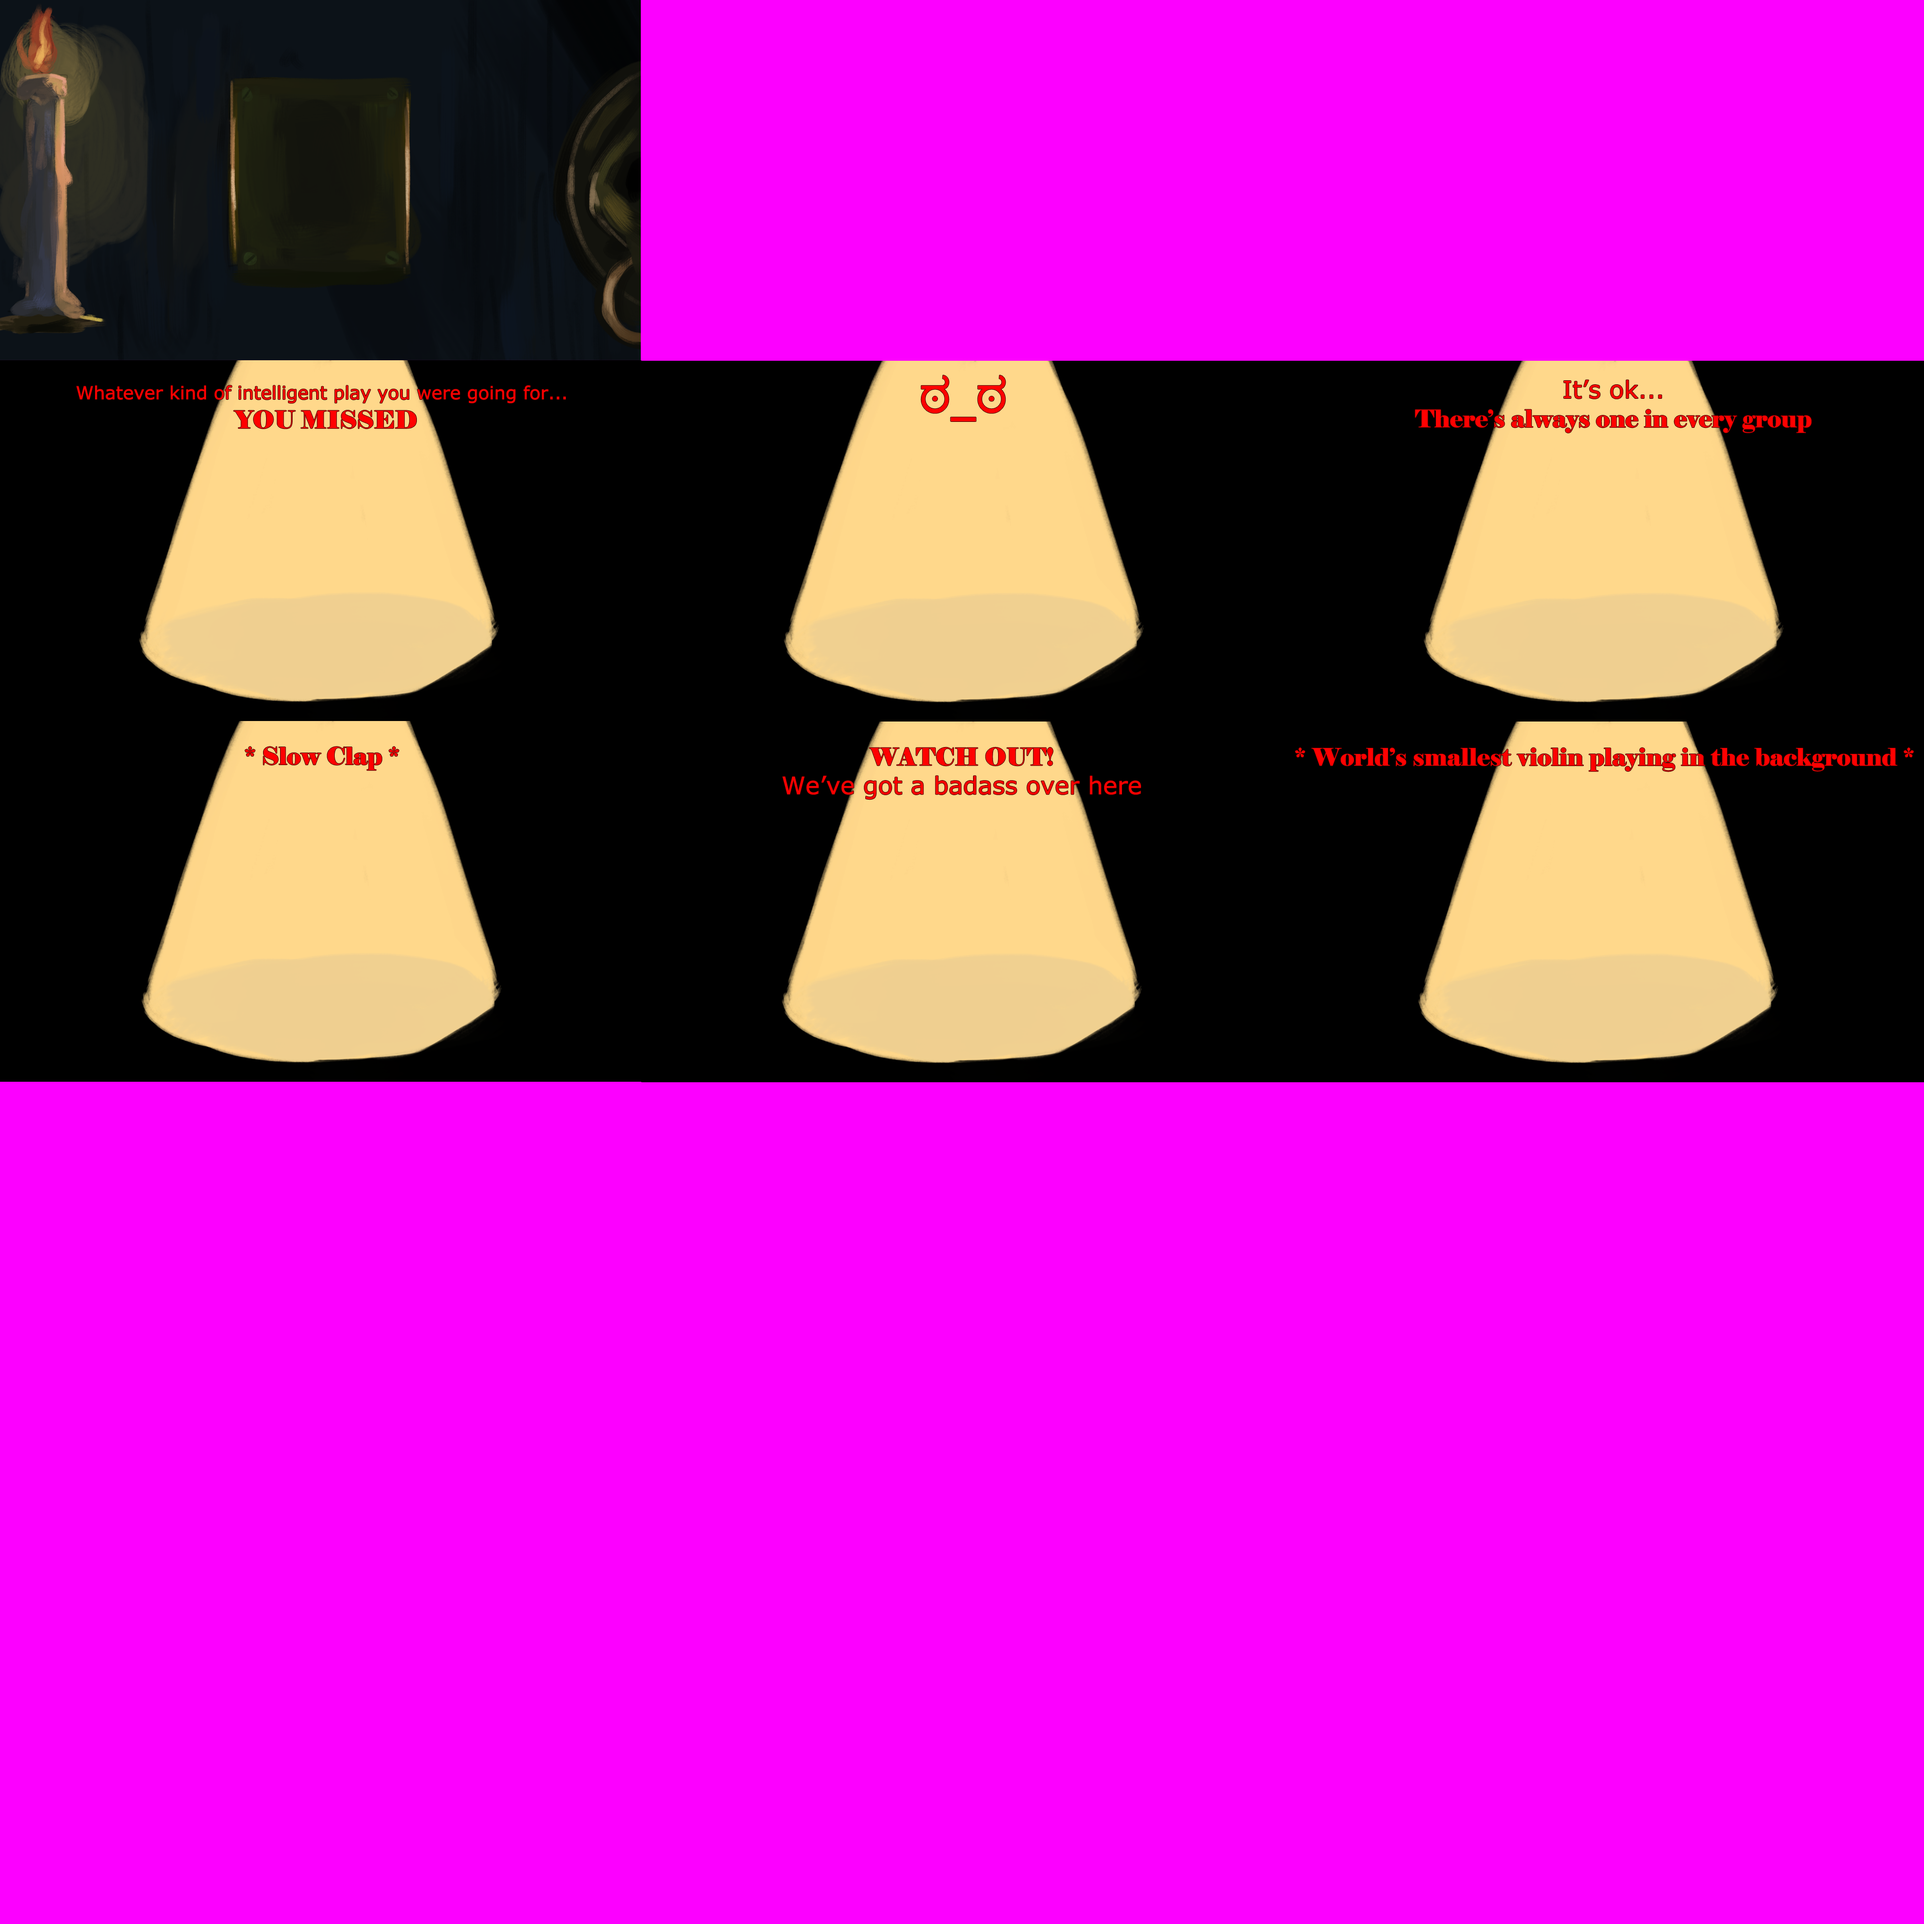
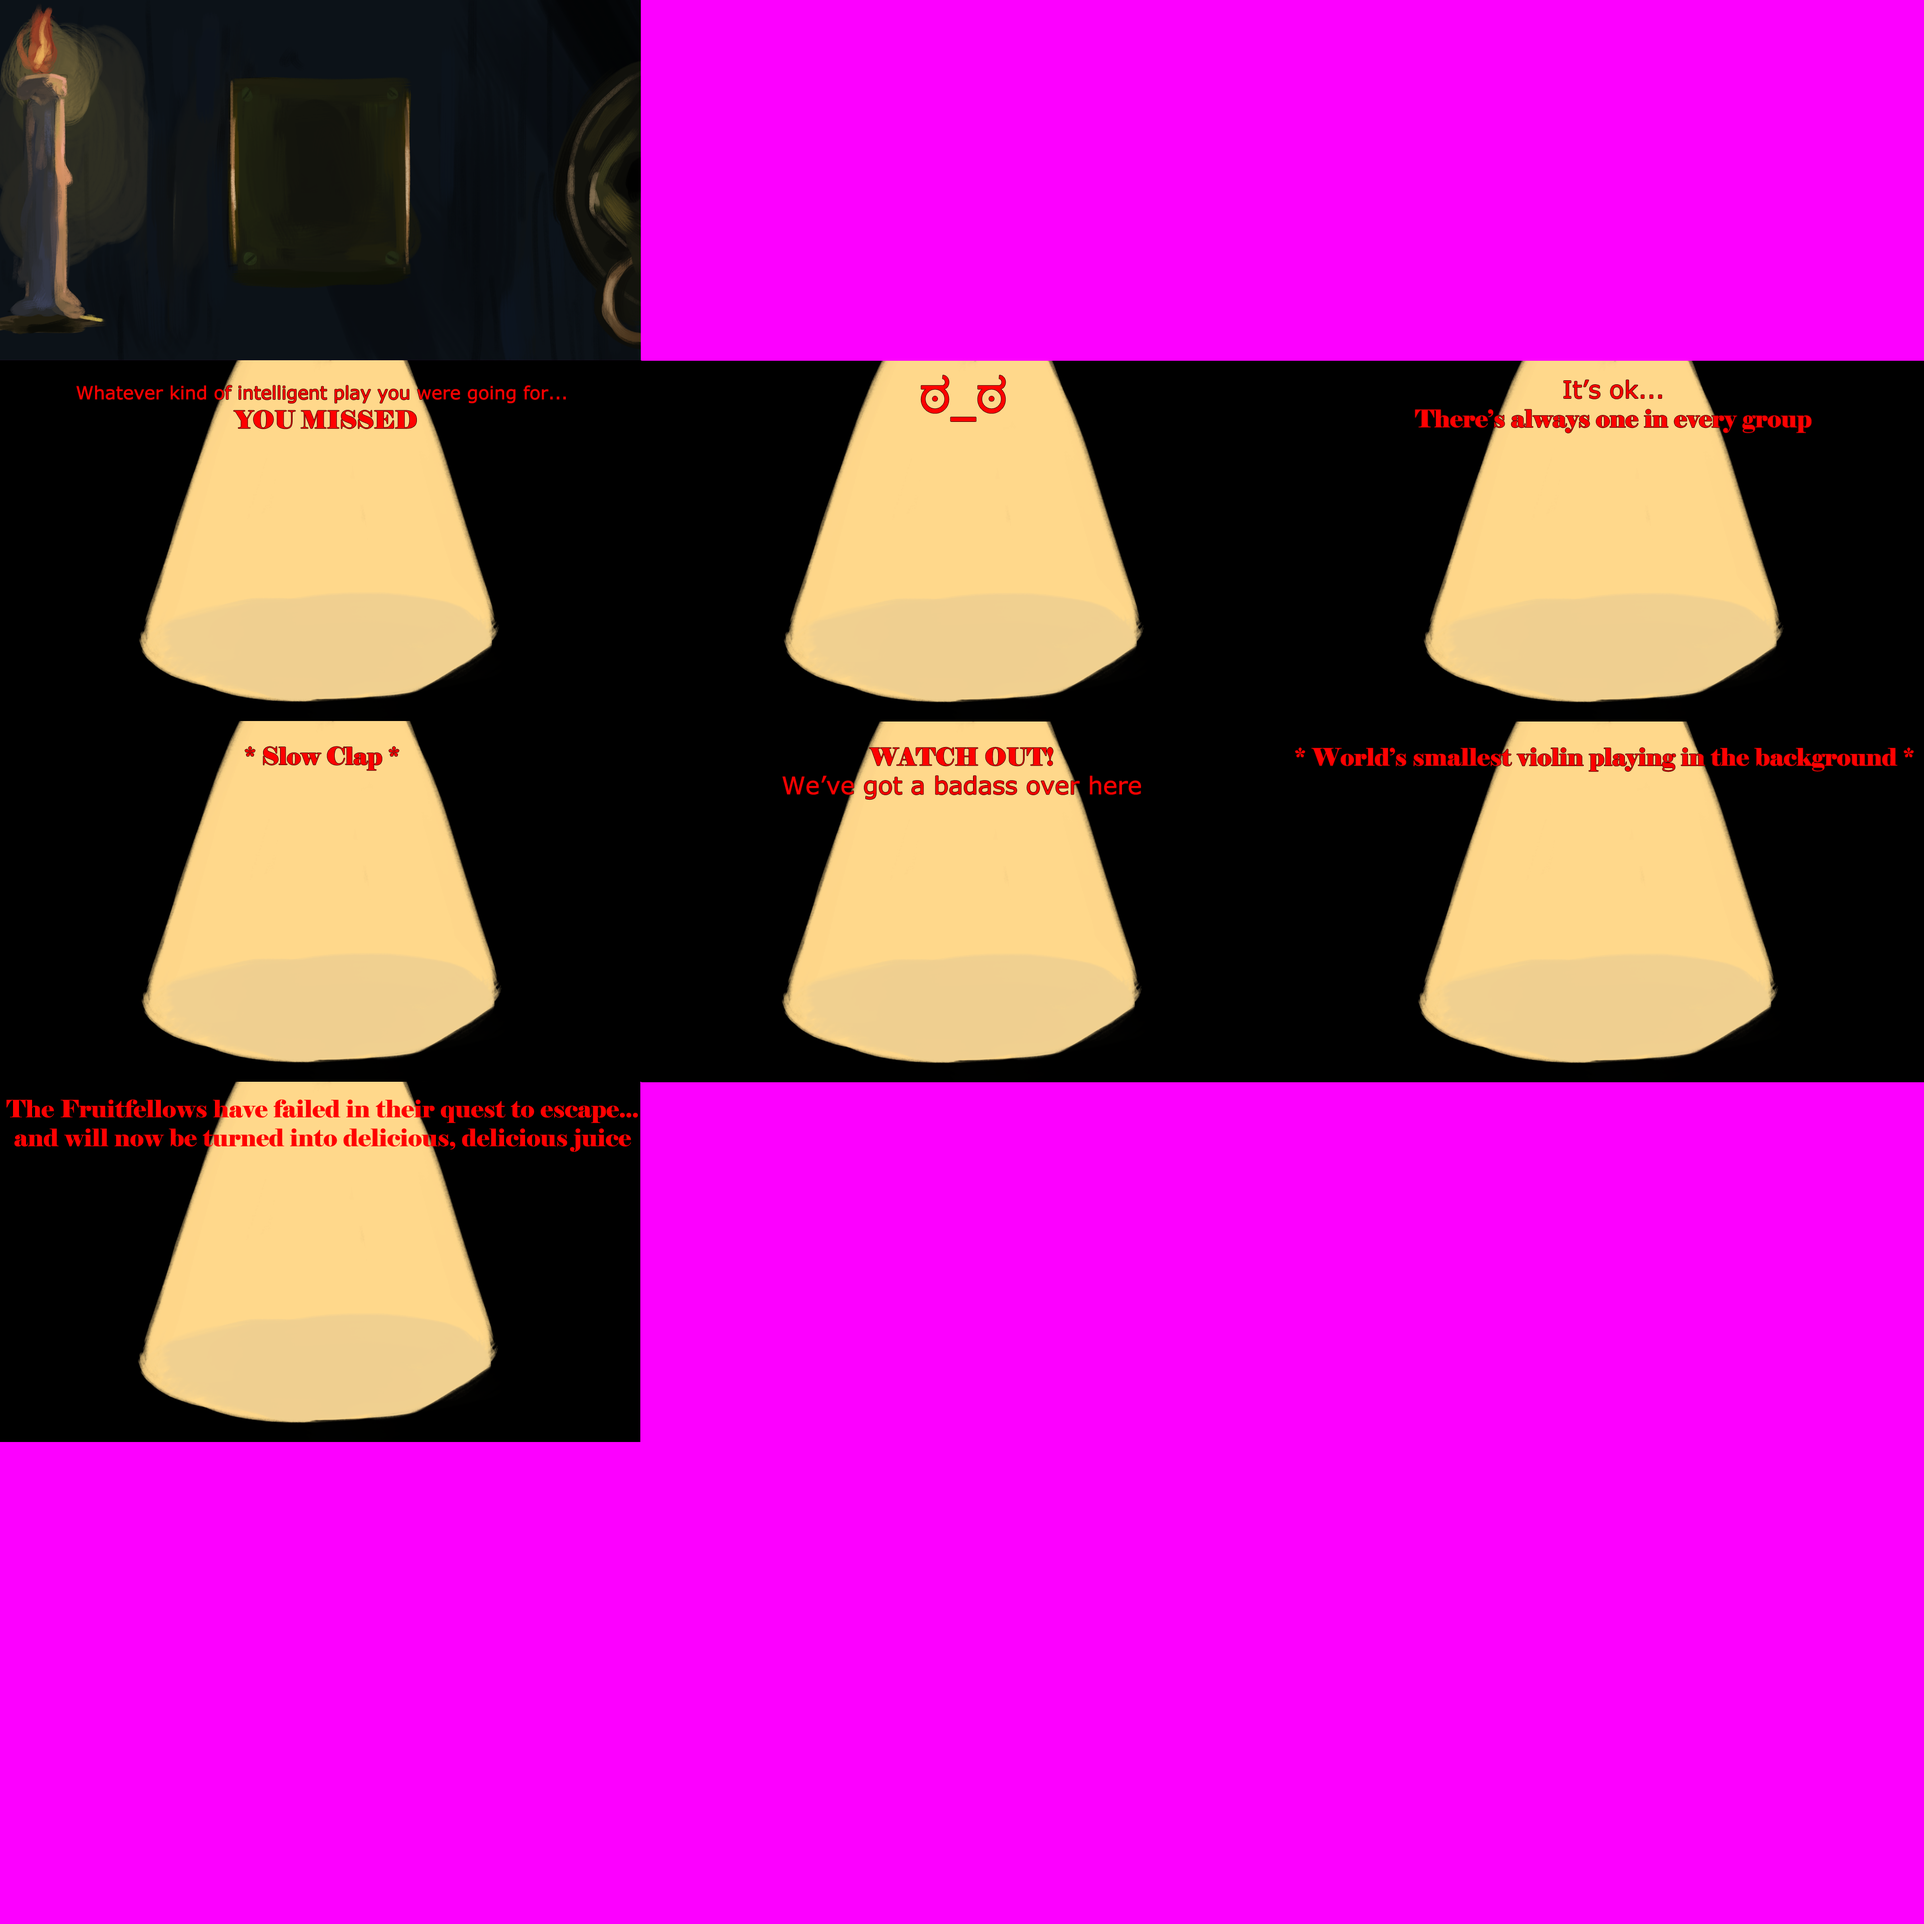
New ending background

Changed region(s): [[0.0, 0.5625, 0.3438, 0.75]]

diff --git a/js/Menus.js b/js/Menus.js
@@ -90,7 +90,7 @@ Menus.EndState.prototype = {
     },
     create: function() {
         // Choose a random bg
-        var bgFrame = getRandomInt(3, 8); // fail backgrounds
+        var bgFrame = 9;
         this.game.add.sprite(0, 0, 'bg', bgFrame);
         
         for (var i = 0; i < 4; ++i) {
